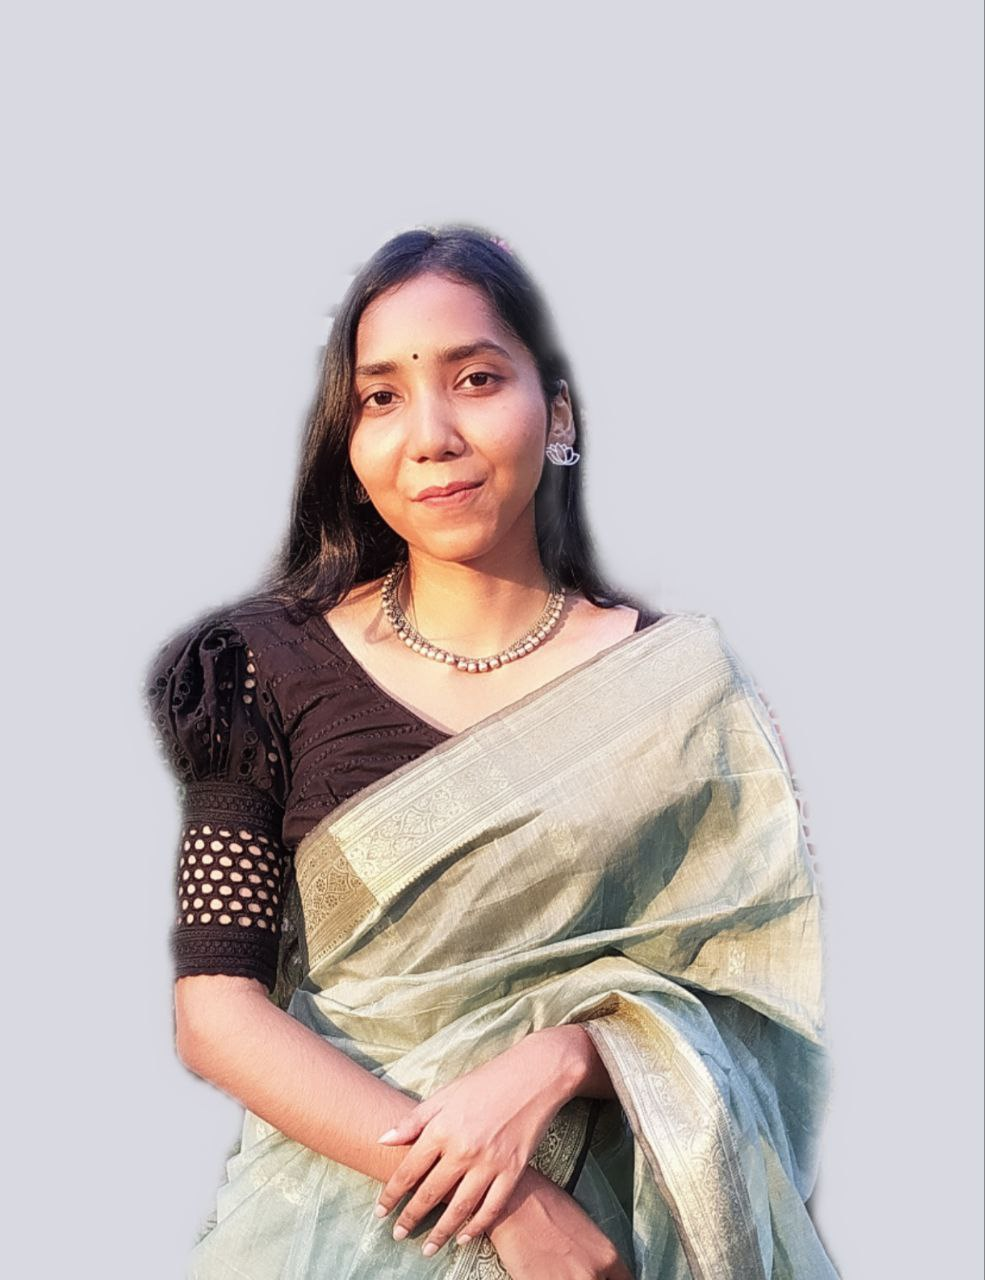
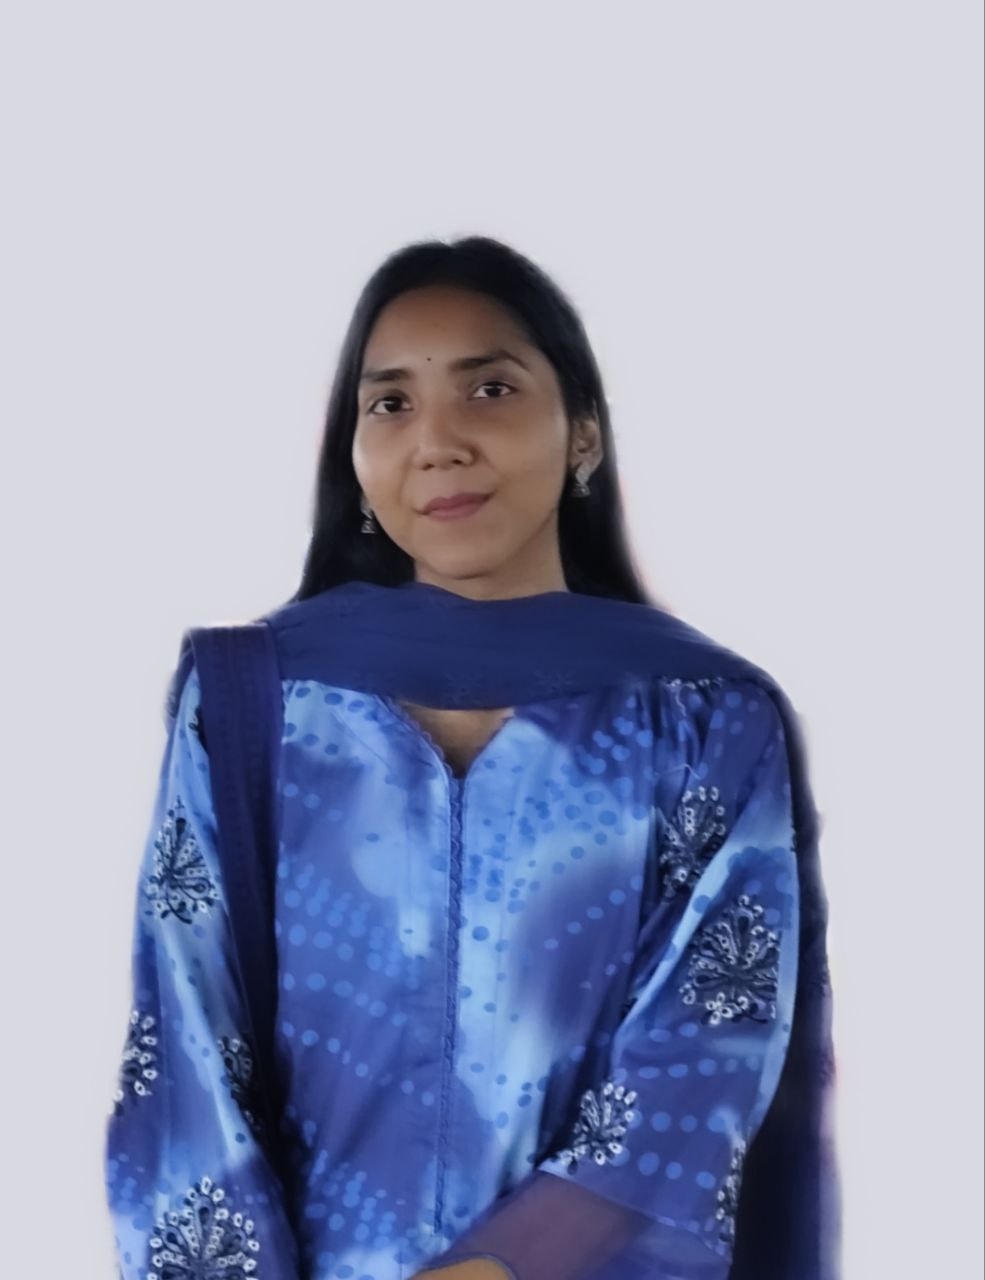
final

diff --git a/style.css b/style.css
@@ -10,14 +10,14 @@ html {
 }
 
 body {
-    background-color: rgb(12, 12, 52);
-    color: #fff;
+    background-color: black;
+    color: rgb(255, 255, 255);
 }
 
 #header {
     width: 100%;
     height: 100vh;
-    background-image: url(images/bg.png.jpg);
+    /* background-image: url(images/bg.png.jpg); */
     background-size: cover;
     background-position: center;
 }
@@ -40,13 +40,13 @@ nav {
 nav ul li {
     display: inline-block;
     list-style: none;
-    margin: 10px 20px;
+    margin: 20px 50px;
 }
 
 nav ul li a {
     color: #fff;
-    text-decoration: none;
-    font-size: 18px;
+    text-decoration: dotted;
+    font-size: 26px;
     position: relative;
 }
 
@@ -67,11 +67,11 @@ nav ul li a:hover::after {
 
 .header-text {
     margin-top: 20%;
-    font-size: 30px;
+    font-size: 40px;
 }
 
 header-text h1 {
-    font-size: 60px;
+    font-size: 70px;
     margin-top: 20%;
 }
 
@@ -84,7 +84,7 @@ header-text h1 {
 
 #about {
     padding: 80px 0;
-    color: #ababab;
+    color: #ffffff;
 }
 
 .row {
@@ -95,6 +95,7 @@ header-text h1 {
 
 .about-col-1 {
     flex-basis: 35%;
+    position: relative;
 }
 
 .about-col-1 img {
@@ -102,12 +103,24 @@ header-text h1 {
     border-radius: 15px;
 }
 
+.top-img {
+    position: absolute;
+    left: 0;
+    top: 0;
+    opacity: 0;
+    transition: all 0.7s ease;
+}
+
+.top-img:hover {
+    opacity: 1;
+}
+
 .about-col-2 {
     flex-basis: 60%;
 }
 
 .about-col-2 p {
-    font-size: 24px;
+    font-size: 25px;
 }
 
 .sub-title {
@@ -123,7 +136,7 @@ header-text h1 {
 
 .tab-links {
     margin-right: 50px;
-    font-size: 18px;
+    font-size: 24px;
     font-weight: 500;
     cursor: pointer;
     position: relative;
@@ -141,7 +154,7 @@ header-text h1 {
 }
 
 .tab-links.active-link::after {
-    width: 50%;
+    width: 70%;
 }
 
 .tab-contents ul li {
@@ -150,8 +163,9 @@ header-text h1 {
 }
 
 .tab-contents ul li span {
-    color: #b54769;
-    font-size: 20px;
+    color: #e2f10c;
+    font-size: 24px;
+    font-style: bold;
 }
 
 .tab-contents {
@@ -160,53 +174,6 @@ header-text h1 {
 
 .tab-contents.active-tab {
     display: block;
-}
-
-
-/* ------------services---------- */
-
-#services {
-    padding: 30px 0;
-}
-
-.services-list {
-    display: grid;
-    grid-template-columns: repeat(auto-fit, minmax(250px, 1fr));
-    grid-gap: 40px;
-    margin-top: 50px;
-}
-
-.services-list div {
-    background: #262626;
-    padding: 40px;
-    font-size: 13px;
-    font-weight: 300;
-    border-radius: 10px;
-    transition: background 0.5s, transform 0.5s;
-}
-
-.services-list div i {
-    font-size: 50px;
-    margin-bottom: 30px;
-}
-
-.services-list div h2 {
-    font-size: 30px;
-    font-weight: 500;
-    margin-bottom: 15px;
-}
-
-.services-list div a {
-    text-decoration: none;
-    color: #fff;
-    font-size: 12px;
-    margin-top: 20px;
-    display: inline-block;
-}
-
-.services-list div:hover {
-    background: #e099bf;
-    transform: translateY(-10px);
 }
 
 

diff --git a/index.html b/index.html
@@ -13,7 +13,7 @@
     <div id="header">
         <div class="container">
             <nav>
-                <img src="images/logo.jpg" class="logo">
+                <!--<img src="images/logo.jpg" class="logo">-->
                 <ul id="sidemenu">
                     <li><a href="#header">Home</a></li>
                     <li><a href="#about">About</a></li>
@@ -26,7 +26,7 @@
             </nav>
             <div class="header-text">
                 <p>Software Engineer</p>
-                <h1>Hi,I am <span>Nivrita</span><br> from Bangladesh</h1>
+                <h1>Hello,I am <span>Nivrita Munib</span><br></h1>
             </div>
         </div>
     </div>
@@ -35,7 +35,9 @@
         <div class="container">
             <div class="row">
                 <div class="about-col-1">
-                    <img src="images/user.jpg">
+                    <img src="images/hover-photo.jpg" alt="">
+                    <img class="top-img" src="images/user.jpg" alt="">
+
                 </div>
                 <div class="about-col-2">
                     <h1 class="sub-title">About Me</h1>
@@ -72,38 +74,7 @@
             </div>
         </div>
     </div>
-    <!-- ---------services---------- -->
-    <div id="services">
-        <div class="container">
-            <h1 class="sub-title">My Services</h1>
-            <div class="services-list">
-                <div>
-                    <i class="fa-solid fa-code"></i>
-                    <h2>Web Design</h2>
-                    <p>
-                        For web designing I know html and css language.I am also learning JavaScript.
-                    </p>
-                    <a href="#">Learn more</a>
-                </div>
-                <div>
-                    <i class="fa-solid fa-crop"></i>
-                    <h2>UI/UX design</h2>
-                    <p>
-                        For UX/UI design I have learnt figma ,sketch and Adobe.
-                    </p>
-                    <a href="#">Learn more </a>
-                </div>
-                <div>
-                    <i class="fa-brands fa-app-store"></i>
-                    <h2>App Design</h2>
-                    <p>
-                        I know flutter and java to design and build an application
-                    </p>
-                    <a href="#">Learn more</a>
-                </div>
-            </div>
-        </div>
-    </div>
+
     <!-- ------------portfolio----------- -->
 
     <div id="portfolio">
